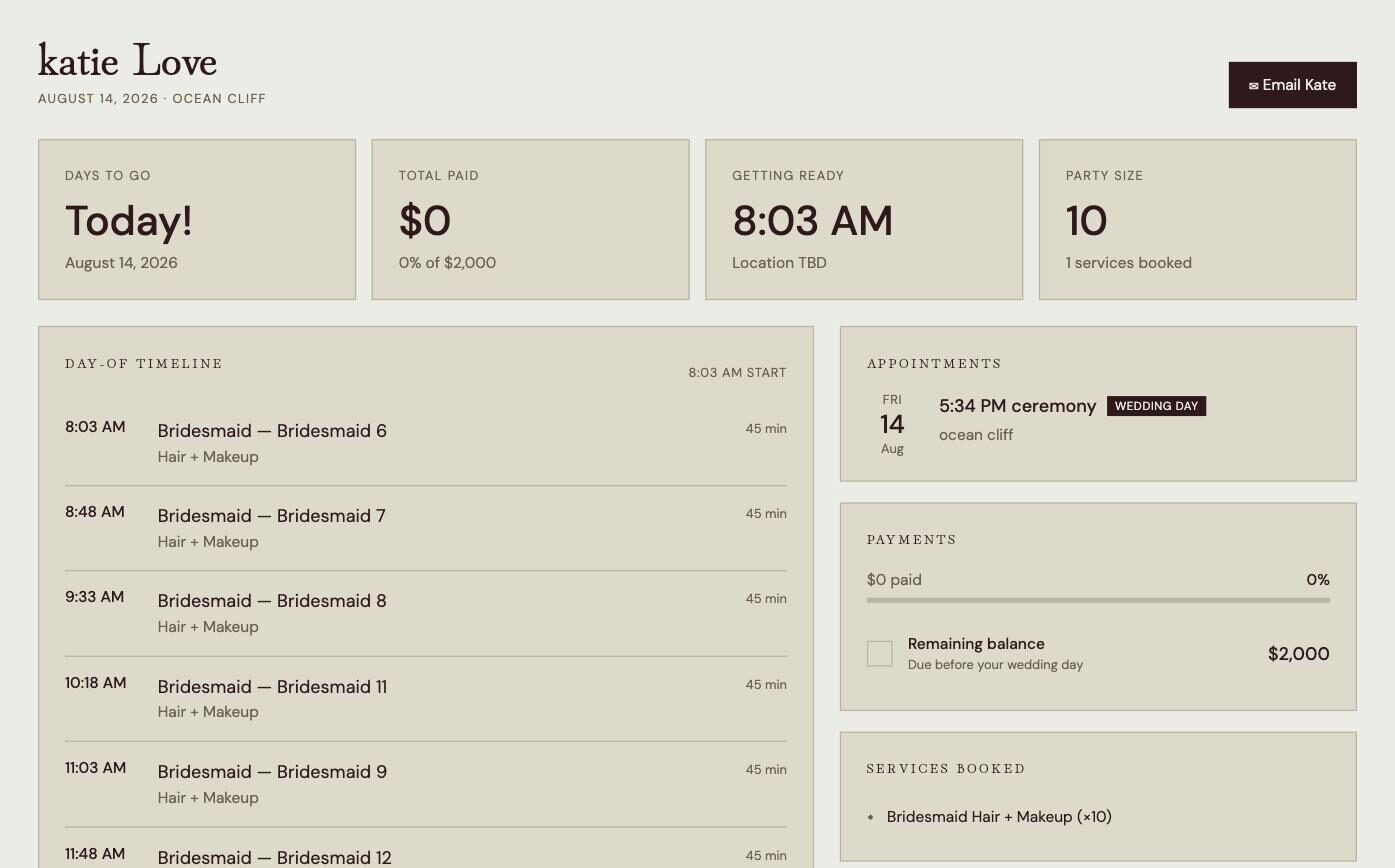
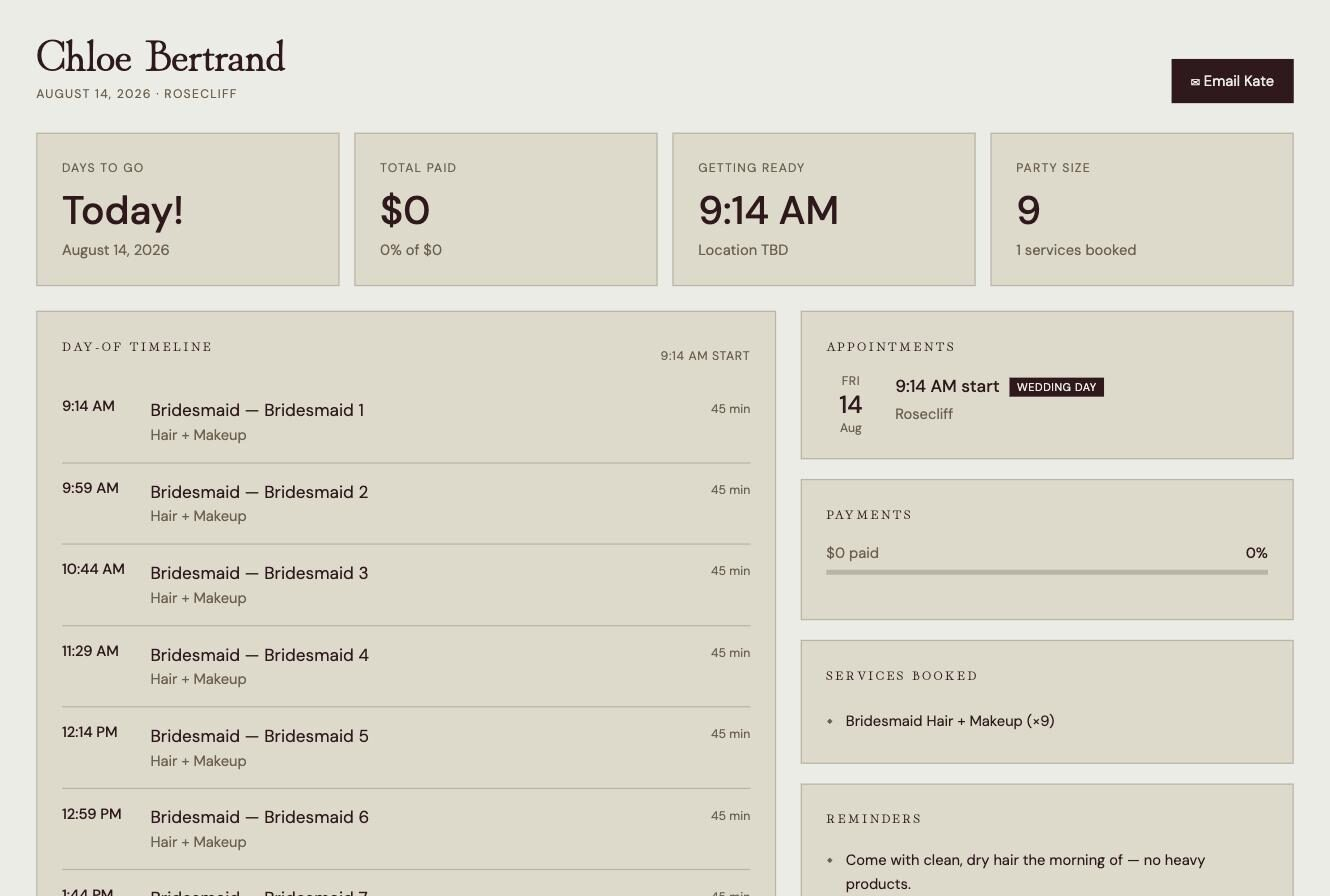
Refresh marketing screenshots with corrected bride/stylist names

diff --git a/CHANGELOG.md b/CHANGELOG.md
@@ -2,6 +2,10 @@
 
 Running log of changes requested while testing the app. Newest first.
 
+## 2026-08-19 (29)
+
+- **Refreshed marketing screenshots** — re-captured dashboard, calendar, payroll, timeline builder, invoice, contract, and bride portal screenshots on vayled.com now that test bride/stylist names are spelled correctly. Pipeline strip image left as-is (it shows milestone labels only, no client names).
+
 ## 2026-08-18 (28)
 
 - **Removed Delete from the Inquiries list too** — same reasoning as Bookings: it made deleting too easy from a list you scroll through quickly. Delete now lives in exactly one place across the whole app: the "Danger zone" at the bottom of a booking's own profile page, where you have to actually open it and confirm.
